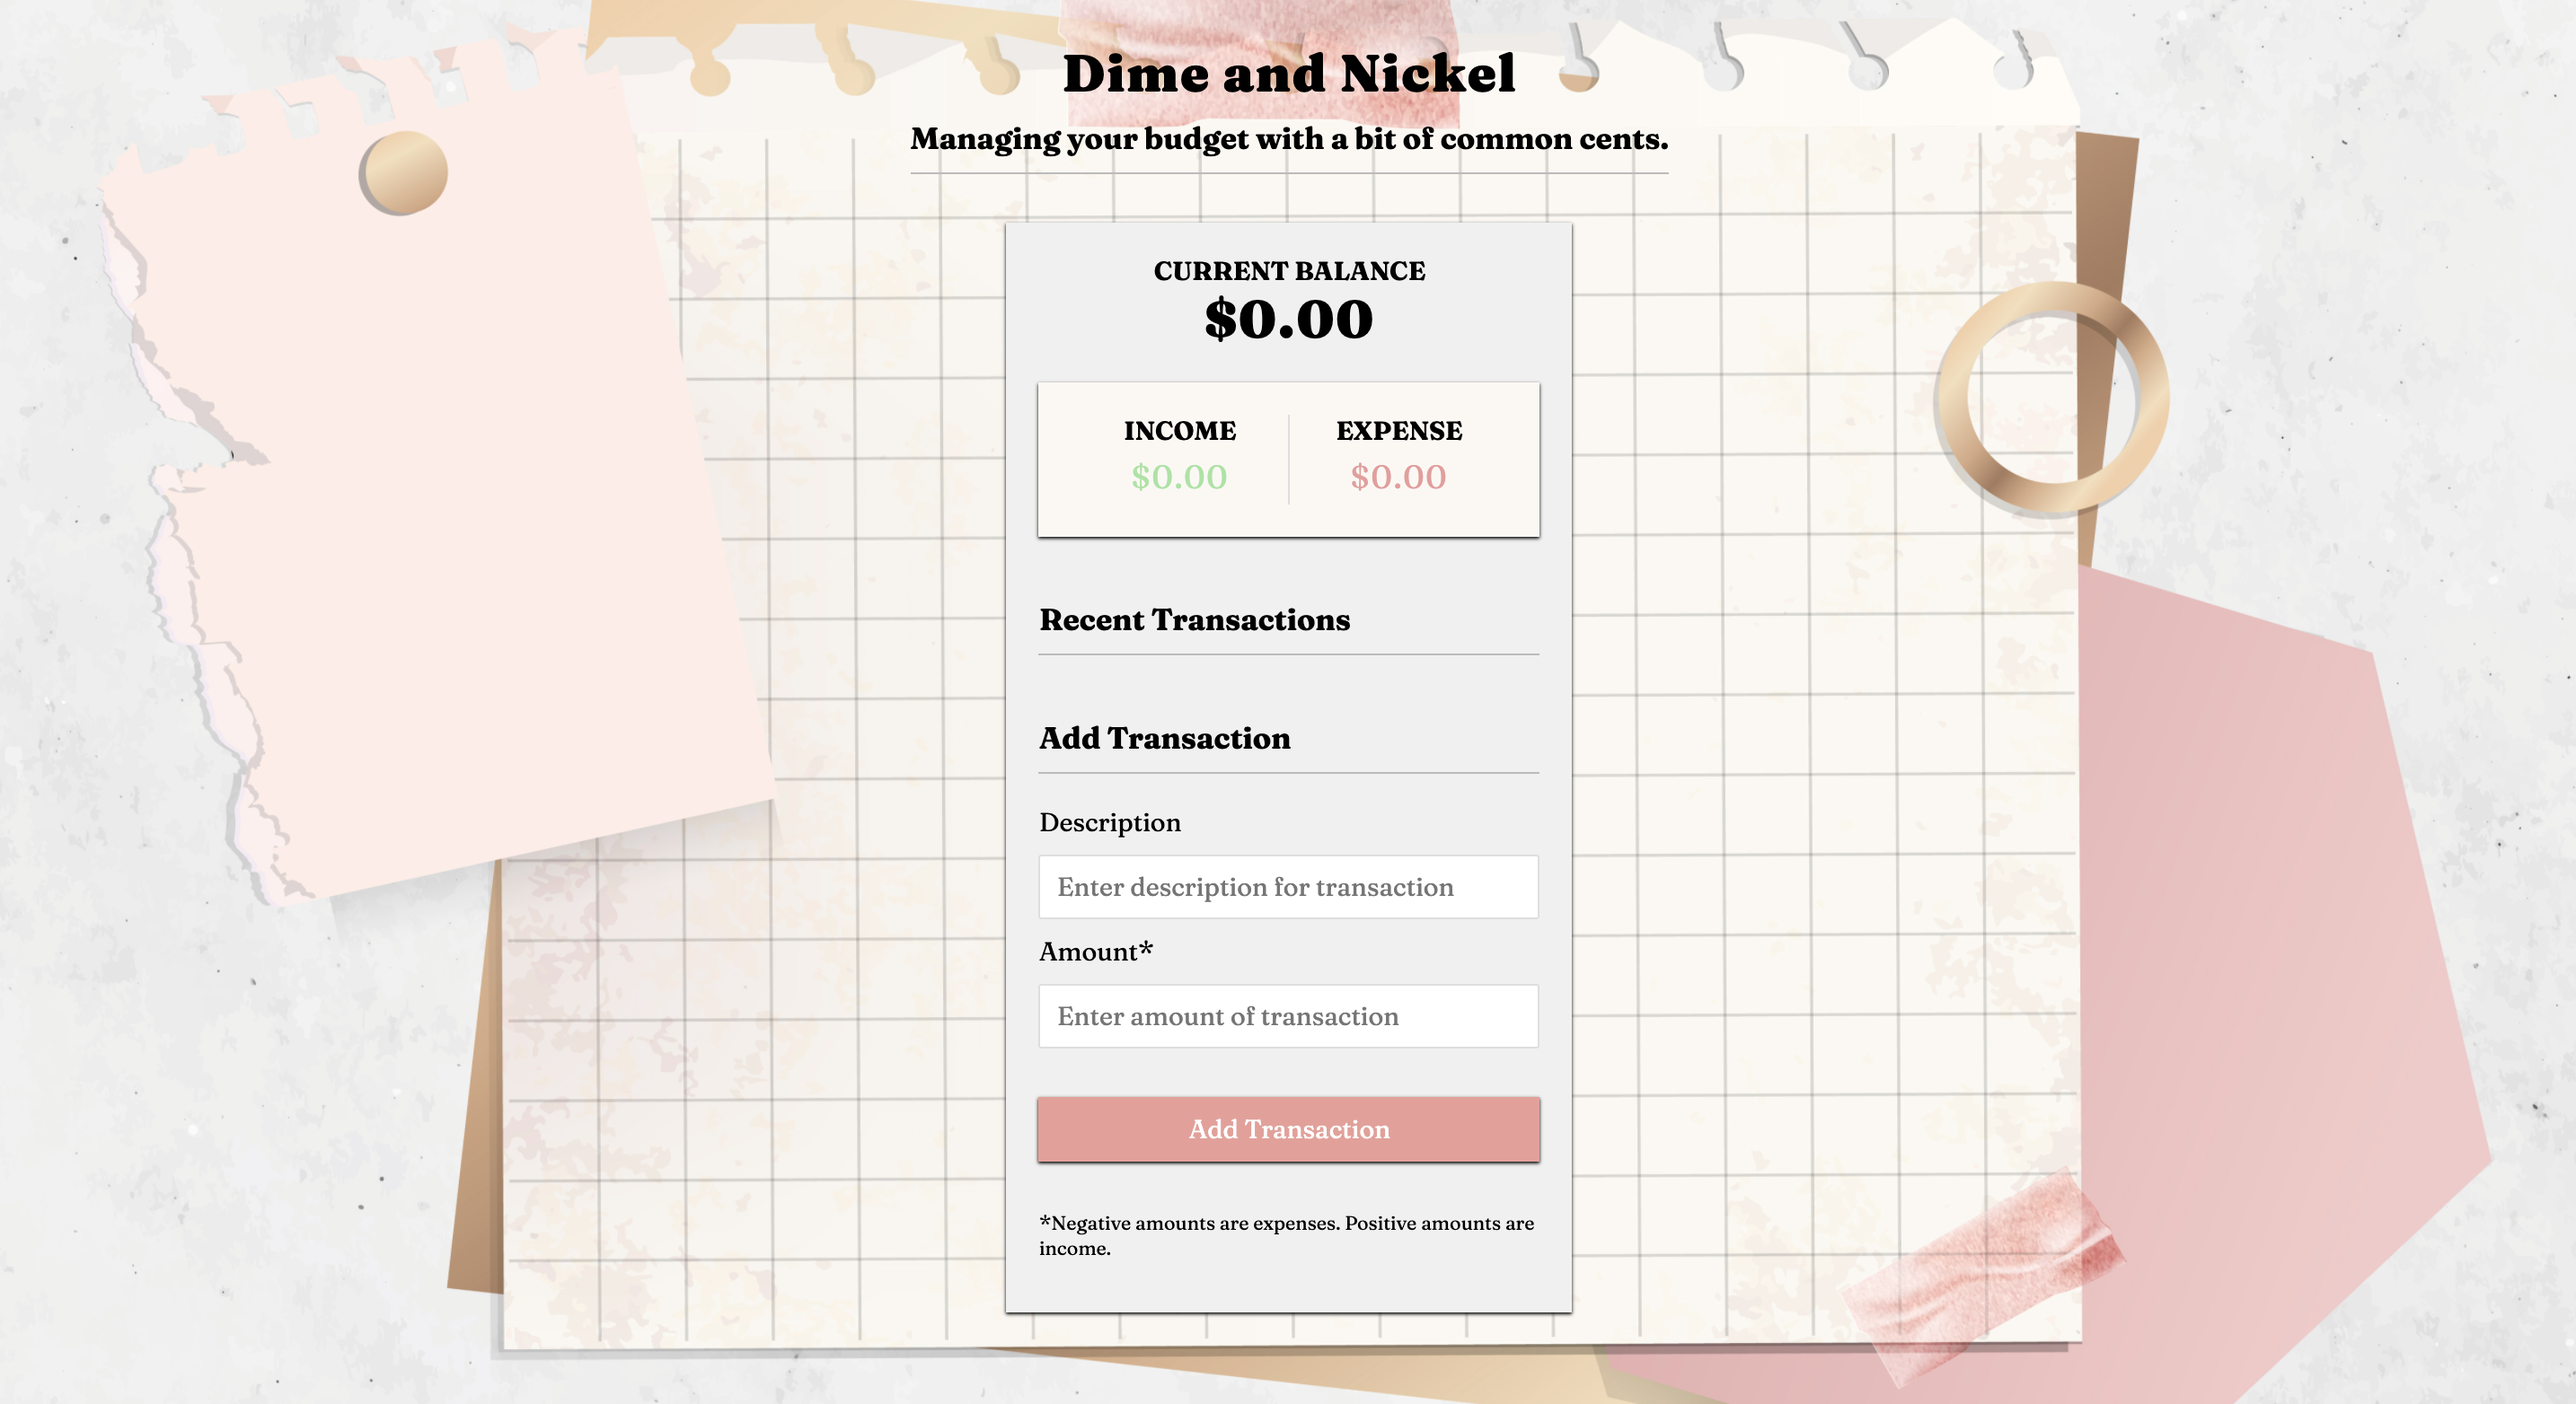
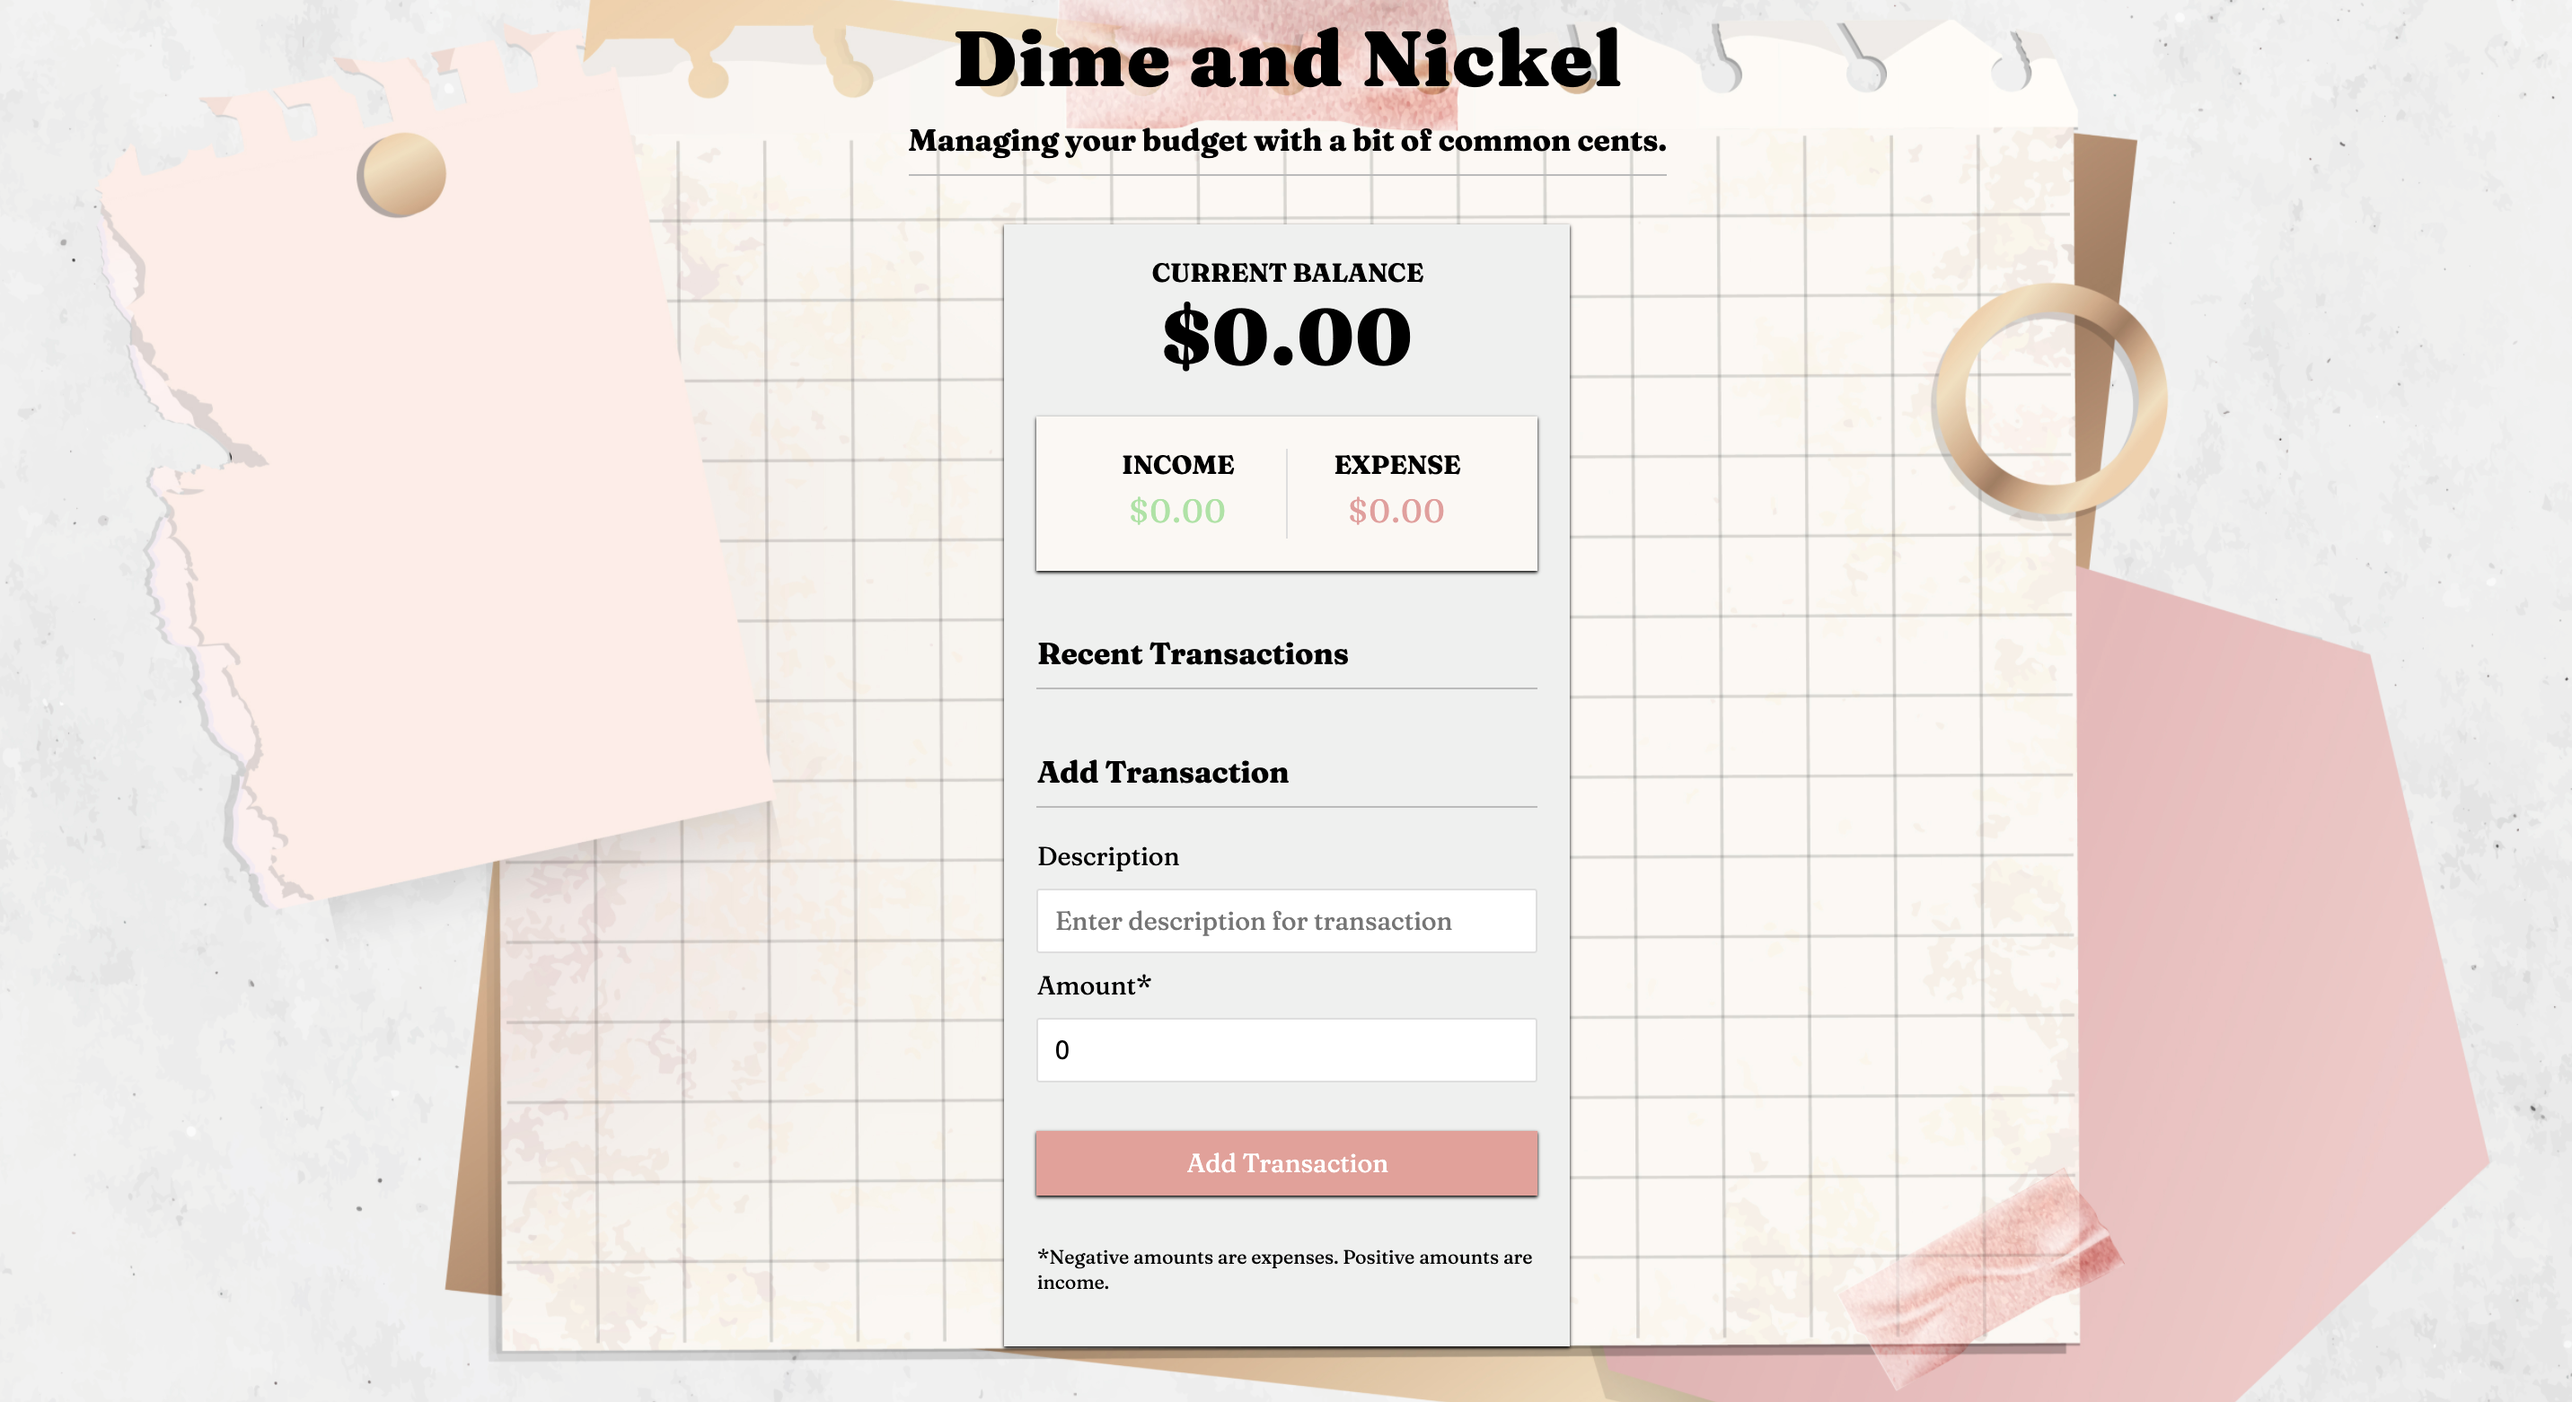
Modified image file and updated README. Modified the App.css file to make the application mobile responsive.

diff --git a/client/src/App.css b/client/src/App.css
@@ -37,6 +37,7 @@ h1 {
   letter-spacing: 1px;
   margin: 0;
   font-weight: 900;
+  font-size: 3rem;
 }
 
 .balance,
@@ -197,4 +198,19 @@ input[type="text"],
 /* Firefox 18- */
 :-moz-placeholder {
   font-family: "Fraunces", serif;
+}
+
+@media screen and (max-width: 480px),
+  screen and (device-aspect-ratio: 2/3),
+  screen and (device-aspect-ratio: 40/71),
+  screen and (device-aspect-ratio: 375/667),
+  screen and (device-aspect-ratio: 16/9) {
+  h1 {
+    font-size: 3rem;
+    text-align: center;
+  }
+
+  h3 {
+    text-align: center;
+  }
 }

diff --git a/README.md b/README.md
@@ -16,7 +16,7 @@
 
 ## Description
 
-Dime and Nickel is a mobile-responsive, budget tracking application. (It is the full-stack MERN version of [Dime and Penny](https://github.com/rh9891/DimeAndPenny).)
+Dime and Nickel is a mobile-responsive, budget tracking application. (It is the MERN-stack version of [Dime and Penny](https://github.com/rh9891/DimeAndPenny). The application takes the original dynamically updated vanilla javascript project and updates it to a React application and adds a backend API with Express and MongoDB.)
 
 ## User Story
 
@@ -43,7 +43,7 @@ WHEN I add an income
 THEN the transaction is displayed under "Recent Transactions" and marked in green.
 
 WHEN I hover over a listed transaction
-THEN an X will be displayed that can be clicked on to delete the transaction.
+THEN an X will be displayed that can be clicked to delete the transaction.
 ```
 
 ## Preview of Dime and Nickel
